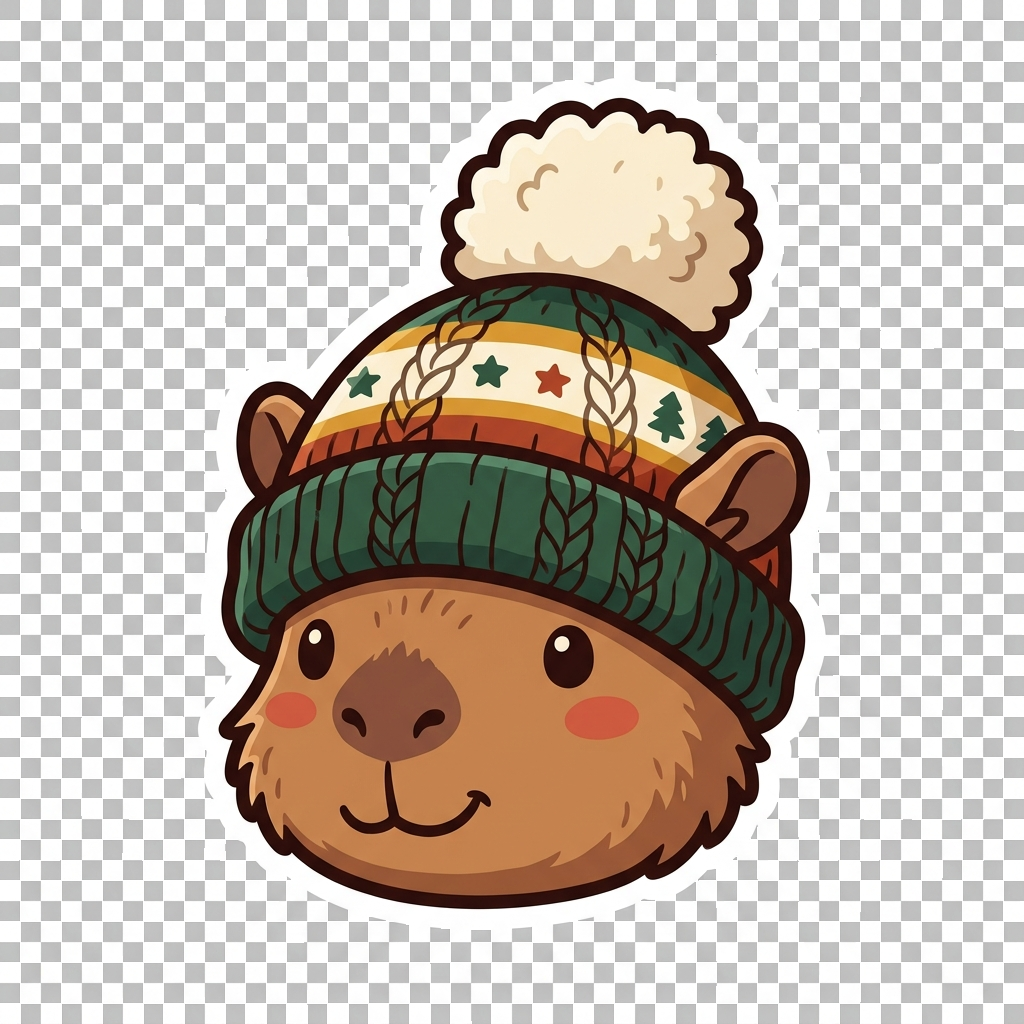
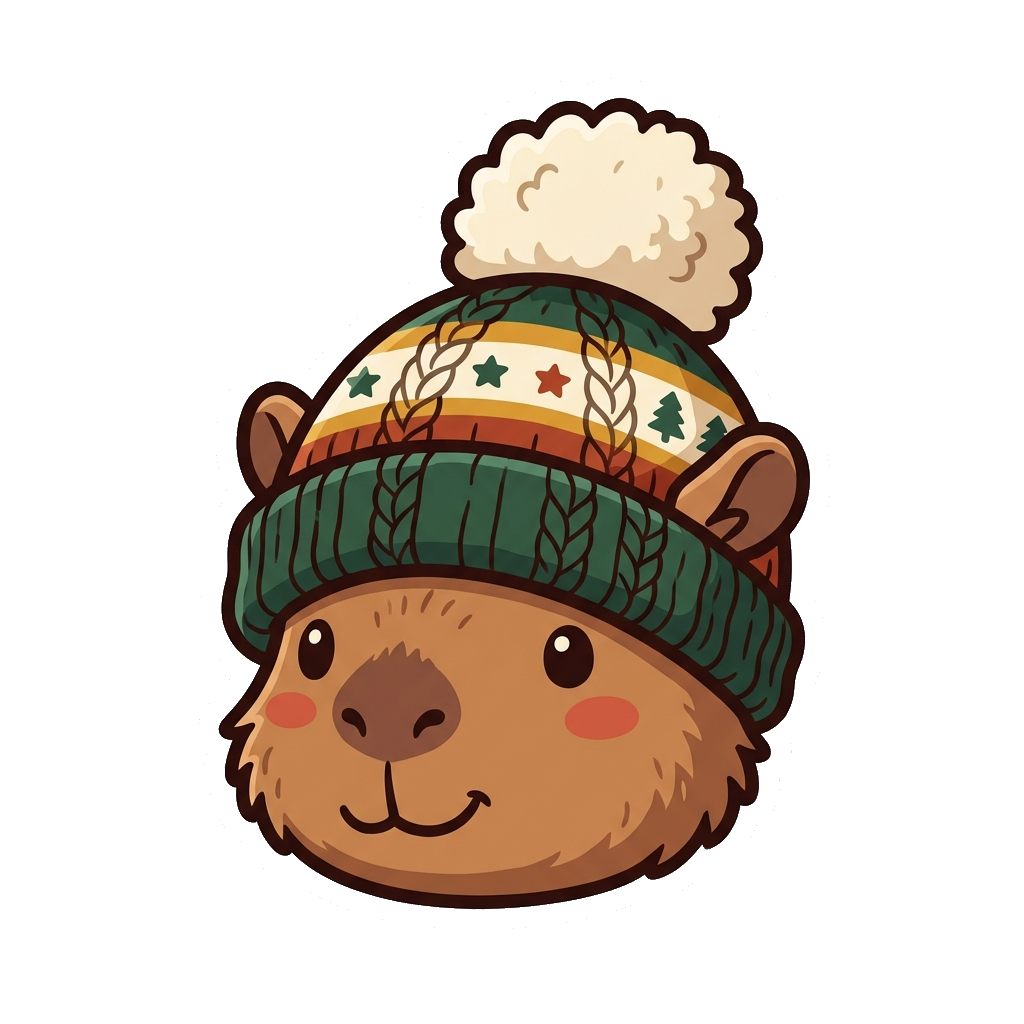
Fix background removal residues and checkerboards in buildings, accessories, seed coin, and mystery box, and bump cache version to capivara-v21

Changed region(s): [[0.0, 0.0, 1.0, 1.0]]

diff --git a/service-worker.js b/service-worker.js
@@ -1,4 +1,4 @@
-const CACHE_NAME = 'capivara-v20';
+const CACHE_NAME = 'capivara-v21';
 const ASSETS = [
   './',
   './index.html',
